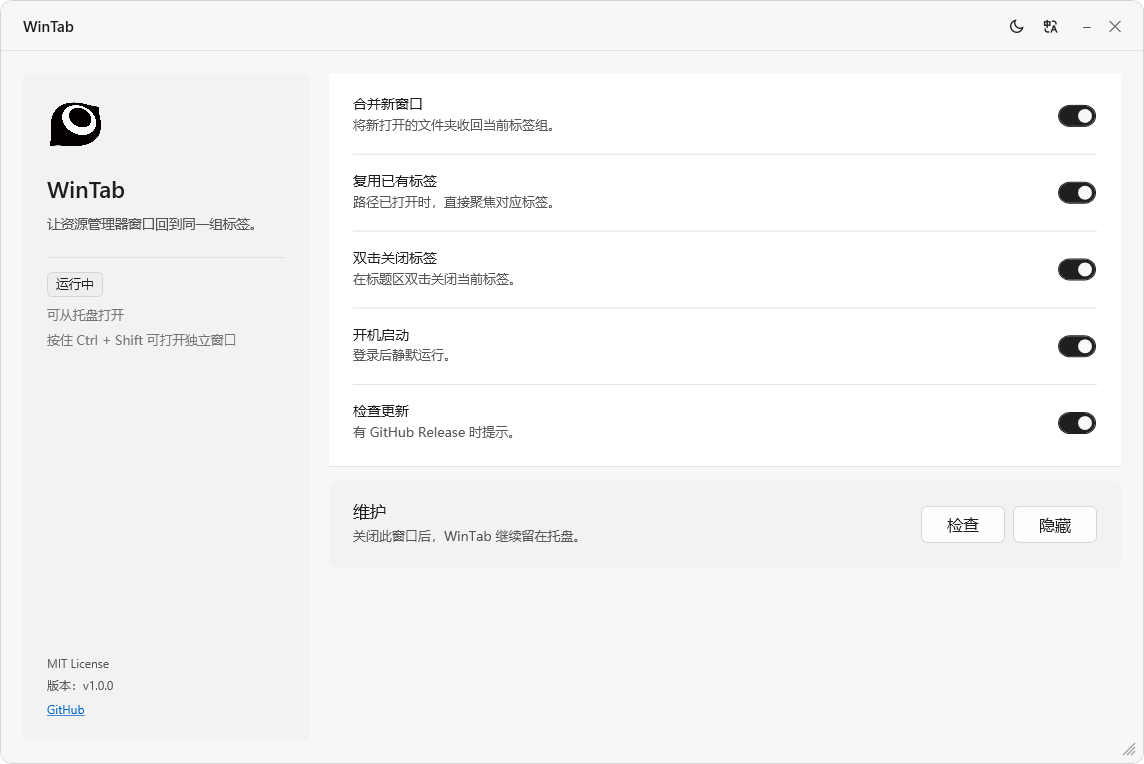
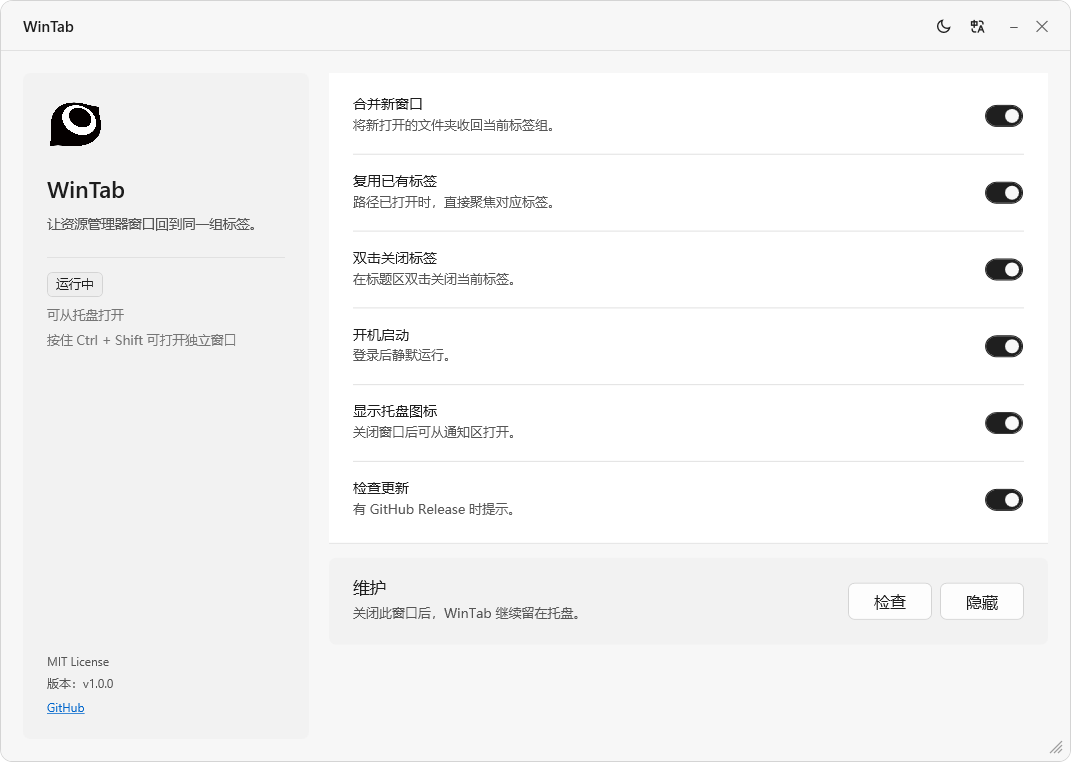
更新文档

diff --git a/README.en.md b/README.en.md
@@ -1,5 +1,6 @@
-<div align="center">
-  <img src="Assets/wintab-logo.png" alt="WinTab Logo" width="96" />
+## <div align="center">
+
+  <img src="Assets/128x128.png" alt="WinTab Logo"/>
 
   <h1>WinTab</h1>
 
@@ -71,3 +72,4 @@ WinTab/
 ## License
 
 MIT License
+

diff --git a/README.md b/README.md
@@ -1,5 +1,5 @@
 <div align="center">
-  <img src="Assets/256x256.png" alt="WinTab Logo"/>
+  <img src="Assets/128x128.png" alt="WinTab Logo"/>
 
   <h1>WinTab</h1>
 